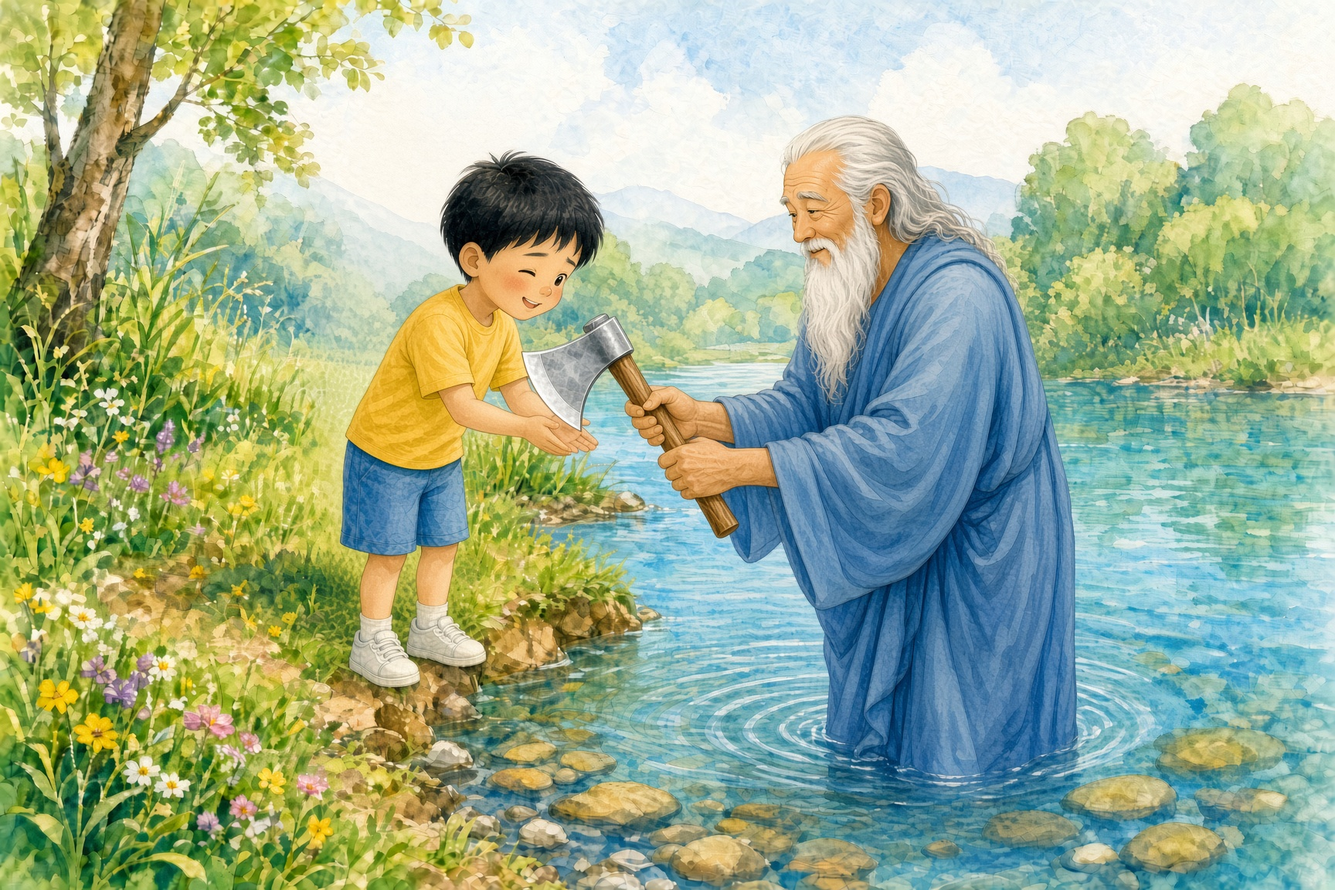
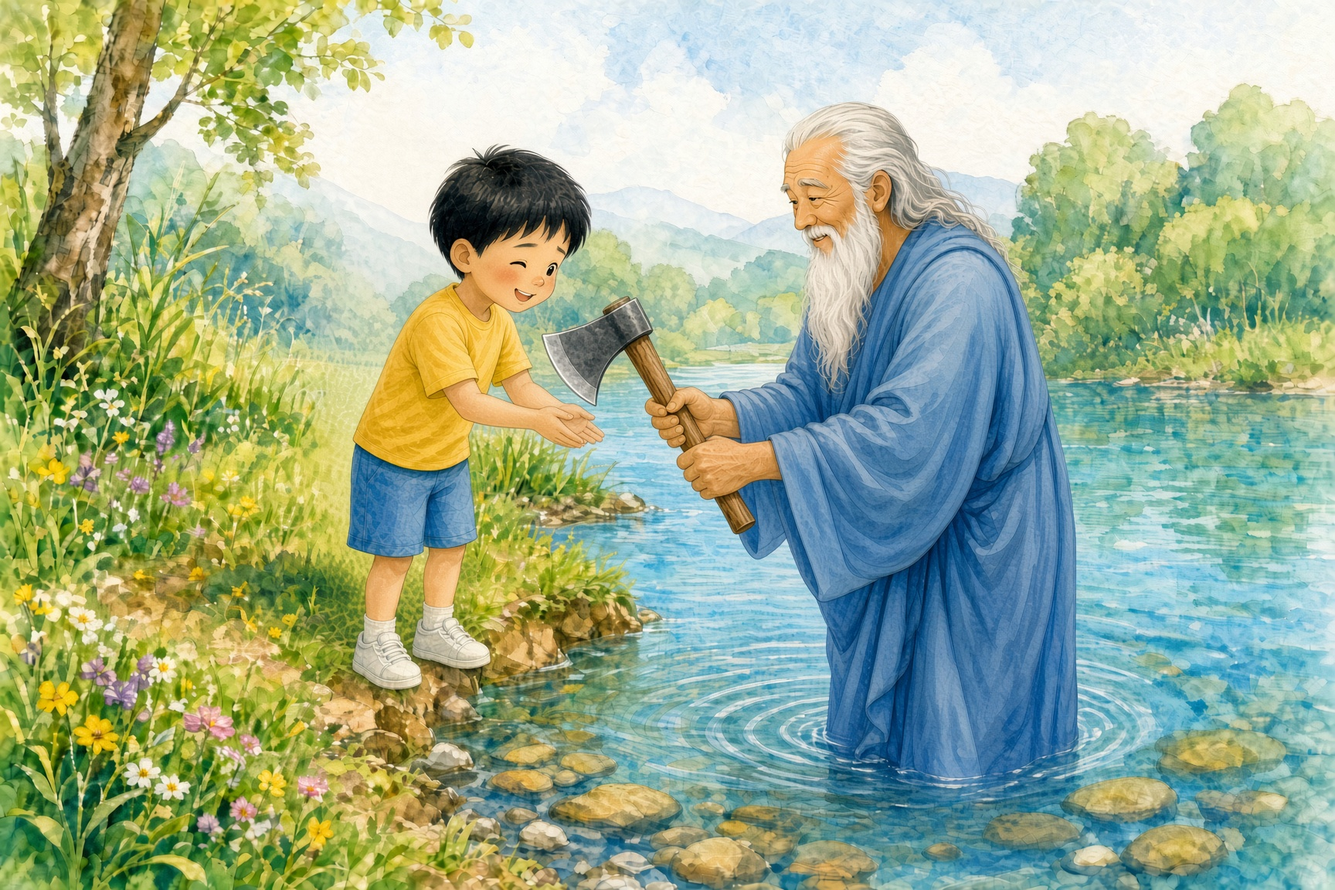
Match the iron axe and swap in two easier fairy tales

Changed region(s): [[0.0, 0.0938, 1.0, 1.0], [0.875, 0.2188, 0.9062, 0.25]]

diff --git a/fairy.js b/fairy.js
@@ -1,4 +1,3 @@
-
 window.STORIES.push([
   {
     id: "axe",
@@ -27,7 +26,7 @@ window.STORIES.push([
       {
         caption: "老公公把鐵斧頭還給他，稱讚他誠實。",
         hint: "最後他拿回什麼？為什麼？",
-        image: "comics/axe/4.jpg",
+        image: "comics/axe/4.jpg?v=2",
       },
     ],
     starters: ["有一天，男孩在河邊……", "忽然，斧頭……", "老公公問……", "男孩說不是，因為……", "最後……"],
@@ -141,71 +140,68 @@ window.STORIES.push([
     ],
   },
   {
-    id: "wind",
-    title: "北風和太陽",
-    value: "溫柔",
-    level: "進階",
+    id: "crow",
+    title: "烏鴉喝水",
+    value: "動腦",
+    level: "基礎",
     category: "童話",
-    setting: "郊外小路",
-    summary: "北風越吹，行人把大衣裹越緊；太陽一曬，他就脫下來。",
+    setting: "草地",
+    summary: "瓶子裡的水太少，烏鴉把小石子放進去，水就升高了。",
     panels: [
       {
-        caption: "北風和太陽看見行人穿着大衣。",
-        hint: "他們想比什麼？",
-        image: "comics/wind/1.jpg",
+        caption: "烏鴉口渴，看見瓶子裡只有一點點水。",
+        hint: "烏鴉想做什麼？瓶子裡的水多不多？",
+        image: "comics/crow/1.jpg",
       },
       {
-        caption: "北風用力吹，行人把大衣裹得更緊。",
-        hint: "大力有沒有用？",
-        image: "comics/wind/2.jpg",
+        caption: "牠想喝，可是嘴巴碰不到水。",
+        hint: "為什麼喝不到？",
+        image: "comics/crow/2.jpg",
       },
       {
-        caption: "太陽溫柔地曬，行人覺得暖和。",
-        hint: "太陽怎樣做？行人感覺如何？",
-        image: "comics/wind/3.jpg",
+        caption: "烏鴉把小石子一顆一顆放進瓶子。",
+        hint: "牠想到什麼辦法？",
+        image: "comics/crow/3.jpg",
       },
       {
-        caption: "行人脫下大衣。溫柔的方法成功了。",
-        hint: "誰贏了？為什麼？",
-        image: "comics/wind/4.jpg",
+        caption: "水升高了，烏鴉終於喝到水。",
+        hint: "最後怎樣？為什麼水會升高？",
+        image: "comics/crow/4.jpg",
       },
     ],
-    starters: ["有一天，北風和太陽……", "北風用力吹……", "太陽慢慢曬……", "最後行人……"],
-    spokenBasic:
-      "有一日，北風同太陽比賽，睇邊個可以令行人脫低大衣。北風用力吹，行人覺得好凍，將大衣包得更實。太陽溫柔咁曬，行人覺得好暖，就自己脫低大衣。太陽贏咗。",
-    spokenPlus:
-      "有一日，北風同太陽見到行人着住大衣，就比賽邊個可以令佢脫低。北風越吹越大力，行人越覺得凍，大衣拉得越緊。太陽冇大聲，淨係溫柔咁曬。行人覺得暖，自己笑住脫低大衣。呢個故事教我哋，溫柔、有禮貌，有時比大呼小叫更有用。",
-    written:
-      "有一天，北風和太陽比賽，看誰能讓行人脫下大衣。北風用力吹，行人把大衣裹得更緊。太陽溫柔地照着，行人覺得暖和，便脫下大衣。這個故事告訴我們，溫柔有時比用力更有效。",
+    starters: ["有一隻烏鴉很口渴……", "牠看見一個瓶子……", "嘴巴碰不到水，於是……", "小石子放進去之後……", "最後……"],
+    spokenBasic: "有隻烏鴉好口渴，見到一個玻璃樽，入面得少少水。牠想飲，但個嘴碰到水。於是佢將小石仔一粒一粒放落樽。水慢慢升高，烏鴉終於飲到水，好開心。",
+    spokenPlus: "有隻烏鴉好口渴，見到草地有個玻璃樽，入面淨係得少少水。牠伸長個嘴都飲唔到。烏鴉冇放棄，心諗：石仔入咗樽，水就會升高。於是佢一粒一粒放石仔。水升到樽口，佢終於飲到，好開心。呢個故事教我哋，遇到困難可以停低想辦法。",
+    written: "有一隻烏鴉很口渴，看見瓶子裡只有一點點水。牠的嘴巴碰不到水。於是牠把小石子一顆一顆放進瓶子，水慢慢升高，烏鴉終於喝到水。這個故事告訴我們，遇到困難可以想辦法。",
     vocab: [
-      { word: "溫柔", speak: "好好聲、唔兇" },
-      { word: "大衣", speak: "好厚嘅外套" },
-      { word: "比賽", speak: "比試邊個做到" },
+      { word: "口渴", speak: "想飲水" },
+      { word: "瓶子", speak: "玻璃樽" },
+      { word: "升高", speak: "水位向上升" },
     ],
     questions: [
-      { q: "北風和太陽在比什麼？", a: "比誰能讓行人脫下大衣。" },
-      { q: "北風用力吹，結果怎樣？", a: "行人更冷，把大衣裹得更緊。" },
-      { q: "為什麼太陽能贏？", a: "因為太陽溫柔地曬，行人自己覺得熱，就脫下大衣。" },
-      { q: "如果同學不聽你說，你會怎樣？", a: "我會好好說，不對着他大聲叫。" },
-      { q: "這個故事教我們什麼？", a: "溫柔和有禮貌，比用力、大聲更有用。" },
+      { q: "烏鴉為什麼喝不到水？", a: "因為瓶子裡的水太少，嘴巴碰不到。" },
+      { q: "牠想到什麼辦法？", a: "把小石子放進瓶子，讓水升高。" },
+      { q: "水為什麼會升高？", a: "石子佔了位置，水就被推高。" },
+      { q: "如果是你，拿不到高處的東西，會怎樣？", a: "我會想辦法，例如拿凳子，或者請大人幫忙。" },
+      { q: "這個故事教我們什麼？", a: "遇到困難不要立刻放棄，可以動腦筋想辦法。" },
     ],
-    scoring: ["說出比賽是讓行人脫大衣", "說出北風越吹越緊", "說出太陽溫柔地曬", "結尾帶出溫柔"],
-    teacherNote: "這則稍為抽象。先問「行人最後做了什麼」，再問「為什麼他肯脫」。",
+    scoring: ["說出烏鴉口渴、水很少", "說出喝不到", "說出放進小石子", "結尾說水升高、喝到水"],
+    teacherNote: "這則順序很清楚。可讓孩子用手做「一顆、兩顆」放石子的動作，再問水為什麼升高。",
     think: [
       {
-        id: "way",
-        q: "想別人聽你說，你會怎樣？",
+        id: "try",
+        q: "喝不到水，你會放棄嗎？",
         options: [
-          { id: "soft", label: "好好說", icon: "💬", good: true, say: "好好說，別人更願意聽。" },
-          { id: "loud", label: "很大聲", icon: "😤", say: "越大聲，別人可能越不肯聽。" },
+          { id: "no", label: "不會", icon: "💡", good: true, say: "可以停下來想一個辦法。" },
+          { id: "yes", label: "會", icon: "🚶", say: "先想想還有沒有別的方法。" },
         ],
       },
       {
-        id: "friend",
-        q: "同學不願意和你玩，你會怎樣？",
+        id: "how",
+        q: "怎樣可以喝到瓶子裡的水？",
         options: [
-          { id: "ask", label: "溫柔邀請", icon: "🤝", good: true, say: "可以笑着說：我們一起玩好嗎？" },
-          { id: "pull", label: "拉他走", icon: "✊", say: "拉人會弄痛別人。用說話邀請更好。" },
+          { id: "stone", label: "放石子", icon: "🪨", good: true, say: "石子放進去，水就會升高。" },
+          { id: "push", label: "打翻瓶子", icon: "💥", say: "打翻就喝不到了。放石子更安全。" },
         ],
       },
     ],
@@ -351,71 +347,68 @@ window.STORIES.push([
     ],
   },
   {
-    id: "wolf",
-    title: "狼來了",
-    value: "誠實",
-    level: "進階",
+    id: "tadpole",
+    title: "小蝌蚪找媽媽",
+    value: "堅持",
+    level: "基礎",
     category: "童話",
-    setting: "山坡",
-    summary: "牧童兩次大叫狼來了，村人不再相信。他後來向大家認錯。",
+    setting: "池塘",
+    summary: "小蝌蚪問過小金魚、小烏龜，最後找到青蛙媽媽。",
     panels: [
       {
-        caption: "牧童在山上看羊，覺得有點悶。",
-        hint: "他在做什麼？身邊有什麼？",
-        image: "comics/wolf/1.jpg",
+        caption: "小蝌蚪在池塘裡游來游去，想找媽媽。",
+        hint: "牠們在做什麼？",
+        image: "comics/tadpole/1.jpg",
       },
       {
-        caption: "他大叫狼來了，村人急急跑上來，卻沒有狼。",
-        hint: "村人為什麼跑來？山上有沒有狼？",
-        image: "comics/wolf/2.jpg",
+        caption: "牠們問小金魚：你是媽媽嗎？小金魚搖頭。",
+        hint: "小金魚是不是媽媽？",
+        image: "comics/tadpole/2.jpg",
       },
       {
-        caption: "他又叫一次。村人不高興，因為又沒有狼。",
-        hint: "村人的表情怎樣？為什麼？",
-        image: "comics/wolf/3.jpg",
+        caption: "牠們又問小烏龜。小烏龜指一指前面。",
+        hint: "小烏龜怎樣幫牠們？",
+        image: "comics/tadpole/3.jpg",
       },
       {
-        caption: "牧童向村人鞠躬，說以後不再說謊。",
-        hint: "他明白了什麼？羊還安全嗎？",
-        image: "comics/wolf/4.jpg",
+        caption: "小蝌蚪找到青蛙媽媽，大家都開心。",
+        hint: "媽媽是誰？牠們的心情怎樣？",
+        image: "comics/tadpole/4.jpg",
       },
     ],
-    starters: ["有一個牧童在山上看羊……", "他覺得悶，於是大叫……", "村人跑上來，可是……", "他又叫一次……", "最後他說……"],
-    spokenBasic:
-      "牧童喺山上看羊，覺得悶，就大叫：狼來了！村人跑上山，發現冇狼，牧童喺度笑。之後佢又叫一次，村人再來，又冇狼，大家都唔高興。後來牧童知道自己錯，向村人鞠躬，話以後唔會再講大話。",
-    spokenPlus:
-      "牧童負責喺山上看羊。有一日佢覺得悶，就大叫狼來了。村人好驚，跑上山，先至知道冇狼，牧童淨係玩。第二次佢又叫，村人再生氣。如果下次真係有危險，就可能冇人相信佢。牧童低頭說對不起，答應以後講真話。呢個故事教我哋，唔可以講大話，否則別人就唔再相信你。",
-    written:
-      "牧童在山上看羊，因為無聊而大叫狼來了。村人跑上來，發現沒有狼。他又叫了一次，村人很不高興。牧童明白自己錯了，向大家道歉，答應以後不說謊。這個故事告訴我們，說謊會讓別人不再相信自己。",
+    starters: ["池塘裡有幾隻小蝌蚪……", "牠們遇見小金魚……", "小金魚說不是……", "後來小烏龜……", "最後牠們找到……"],
+    spokenBasic: "池塘有幾隻小蝌蚪，想搵媽媽。牠哋見到小金魚，問：你係媽媽嗎？小金魚搖頭。牠哋又問小烏龜，小烏龜指住前面。小蝌蚪游過去，見到青蛙媽媽。青蛙媽媽笑，小蝌蚪好開心。",
+    spokenPlus: "池塘入面有三隻小蝌蚪，唔見咗媽媽，就自己去搵。佢哋先問小金魚，小金魚話：我唔係你媽媽。小蝌蚪冇放棄，再問小烏龜。小烏龜好好咁指住前面。游到荷葉度，青蛙媽媽喺度等佢哋。大家終於見面，好開心。呢個故事教我哋，搵唔到都唔好放棄，可以有禮貌地問人。",
+    written: "池塘裡有幾隻小蝌蚪，想找媽媽。牠們問小金魚，小金魚說不是。牠們又問小烏龜，小烏龜指着前面。小蝌蚪游過去，找到了青蛙媽媽，大家都很開心。這個故事告訴我們，找不到不要放棄，可以有禮貌地問人。",
     vocab: [
-      { word: "牧童", speak: "睇住羊嘅小朋友" },
-      { word: "說謊", speak: "講大話" },
-      { word: "相信", speak: "覺得你講嘅係真" },
+      { word: "蝌蚪", speak: "青蛙嘅小朋友" },
+      { word: "池塘", speak: "有水有草嘅地方" },
+      { word: "搖頭", speak: "話唔係" },
     ],
     questions: [
-      { q: "牧童叫了什麼？", a: "他叫「狼來了」。" },
-      { q: "山上其實有沒有狼？", a: "沒有。他只是覺得悶，騙大家。" },
-      { q: "村人為什麼後來不高興？", a: "因為他們白跑了一趟，牧童說了謊。" },
-      { q: "如果是你，覺得悶的時候會怎樣？", a: "我會唱歌或數羊，不會喊狼來了騙人。" },
-      { q: "這個故事教我們什麼？", a: "不可以說謊。說了謊，別人就不相信你。" },
+      { q: "小蝌蚪在找誰？", a: "找媽媽。" },
+      { q: "小金魚是牠們的媽媽嗎？", a: "不是。小金魚搖頭。" },
+      { q: "誰告訴牠們往哪裡走？", a: "小烏龜指着前面。" },
+      { q: "如果是你，找不到媽媽，會怎樣？", a: "我會有禮貌地問認識的人，或者找老師、警察幫忙。" },
+      { q: "這個故事教我們什麼？", a: "找不到不要放棄，要有禮貌地問人。" },
     ],
-    scoring: ["說出牧童看羊", "說出他兩次喊狼來了但沒有狼", "說出村人不高興", "結尾帶出不可說謊或認錯"],
-    teacherNote: "這則不演狼追人。重點放在「說謊以後，別人就不相信」，以及牧童最後認錯。",
+    scoring: ["說出小蝌蚪找媽媽", "按順序說小金魚、小烏龜", "說出最後找到青蛙媽媽", "句子清楚、有開頭和結尾"],
+    teacherNote: "這則人物很分明。可問：為什麼小金魚不是媽媽？讓孩子說出「樣子不一樣」。",
     think: [
       {
-        id: "lie",
-        q: "覺得悶，可以大叫狼來了嗎？",
+        id: "ask",
+        q: "找不到媽媽，你會問人嗎？",
         options: [
-          { id: "no", label: "不可以", icon: "🙅", good: true, say: "這是說謊，會嚇親人。" },
-          { id: "yes", label: "可以", icon: "😜", say: "這樣會讓別人白跑一趟，以後不再相信你。" },
+          { id: "yes", label: "會", icon: "🙋", good: true, say: "可以有禮貌地問：請問你見到我媽媽嗎？" },
+          { id: "no", label: "不會", icon: "😶", say: "問人可以更快找到。也可以找老師幫忙。" },
         ],
       },
       {
-        id: "sorry",
-        q: "說了謊，你會怎樣？",
+        id: "who",
+        q: "小蝌蚪的媽媽是誰？",
         options: [
-          { id: "sorry", label: "說對不起", icon: "🙇", good: true, say: "認錯，以後講真話。" },
-          { id: "hide", label: "不當一回事", icon: "😏", say: "要說對不起，別人才知道你可以改。" },
+          { id: "frog", label: "青蛙", icon: "🐸", good: true, say: "青蛙媽媽在荷葉上等牠們。" },
+          { id: "fish", label: "小金魚", icon: "🐟", say: "小金魚搖頭了，牠不是媽媽。" },
         ],
       },
     ],
